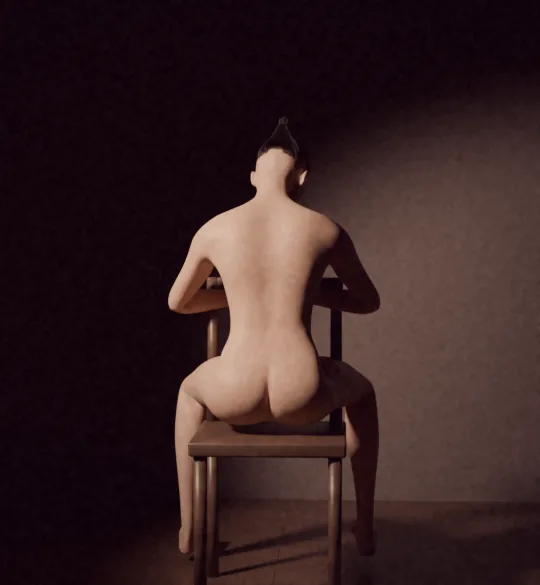
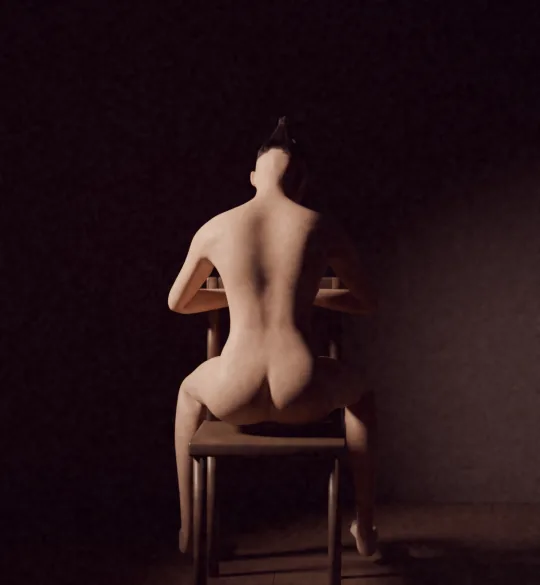
Masterclass art: light as each card says, captions as each picture shows
Five relit pictures had drifted from the tips printed on their own cards:
her-4 asks for soft diffused light, him-4 for frontal diffused light,
him-6 and her-10 for a side light, him-8 for soft light from a window.
They have them again, placed and softened so the faults that moved them
stay fixed: her-4 and him-8 turn from the light or take half of it in
shadow, and her-10's side light is broad enough that the shoulder
blade's shadow no longer reads as a hole.

The captions under six pictures named the view the old drawings had;
they name the photographs' now (her-2 from behind, her-6 from above her
feet, her-8 from above, her-9 in profile, him-4 in three-quarter view,
him-6 from the side).

Claude-Session: https://claude.ai/code/session_01H6q82pzaLn3bRwfZSNngxo

Changed region(s): [[0.2963, 0.1846, 1.0, 1.0], [0.3259, 0.4308, 0.4148, 0.5846]]

diff --git a/webapp/index.html b/webapp/index.html
@@ -4177,21 +4177,21 @@
     'camera-exposure': 'нажми на экран и потяни солнышко вниз',
     'camera-focus': 'тап по месту, которое главное в кадре',
     'her-1': 'вид сбоку · свет слева',
-    'her-2': 'вид спереди · свет сзади сверху',
+    'her-2': 'вид со спины · свет сзади сверху',
     'her-3': 'вид со спины · свет от окна спереди',
     'her-4': 'вид спереди · мягкий свет слева',
     'her-5': 'вид сбоку · свет от окна сзади',
-    'her-6': 'вид сверху · свет сверху слева',
+    'her-6': 'вид сверху от ног · свет из-за головы',
     'her-7': 'кадр крупным планом · свет слева',
-    'her-8': 'вид спереди · свет сзади',
-    'her-9': 'вид спереди · свет слева через жалюзи',
+    'her-8': 'вид сверху сбоку · свет сзади',
+    'her-9': 'вид сбоку · свет слева через жалюзи',
     'her-10': 'вид со спины · свет слева',
     'him-1': 'вид со спины · свет слева',
     'him-2': 'вид спереди · свет сверху',
     'him-3': 'вид спереди · свет справа',
-    'him-4': 'вид спереди · свет спереди',
+    'him-4': 'вид в три четверти · свет спереди',
     'him-5': 'вид сбоку · свет сзади',
-    'him-6': 'вид сзади · свет слева',
+    'him-6': 'вид сбоку со спины · свет сбоку',
     'him-7': 'вид спереди · холодный свет сверху',
     'him-8': 'вид спереди · свет от окна сбоку',
     'him-9': 'вид сбоку · тёплый свет справа',

diff --git a/scripts/guide_art/scenes.py b/scripts/guide_art/scenes.py
@@ -314,9 +314,9 @@ def her_4():
         ground=0.0,
     )  # fmt: skip
     wrapped_sheet(her.h, bare="r", colliders=[ground])
-    # One lamp high to the left, as drawn; she looks down toward it, away
-    # from the phone.
-    spot((-160, 190, 60), (0, 45, 0), WARM, 520.0, radius=10.0, cone=40.0, blend=0.5, name="key")
+    # Soft light, as the card says, from high on the left, as drawn; she
+    # looks down toward it, away from the phone.
+    area((-160, 190, 60), (0, 45, 0), WARM, 330.0, size=90.0, name="key")
     area((150, 120, -100), (0, 50, 0), WARM, 60.0, size=60.0, name="rim")
     camera((40, 75, 330), (0, 35, 0), 24.0, fstop=2.8, focus=(5, 45, 20))
     return Shot()
@@ -454,9 +454,10 @@ def her_10():
         ),
         hair="bun",
     )  # fmt: skip
-    # High and to the camera's side, as drawn: a lamp grazing the back from
-    # the side lays the shoulder blade's shadow over the spine like a hole.
-    spot((-170, 210, 120), (0, 95, 0), WARM, 450.0, radius=15.0, cone=44.0, blend=0.5, name="key")
+    # From the side, as the card says, but high and broad: a small lamp
+    # grazing the back laid the shoulder blade's shadow over the spine like
+    # a hole.
+    spot((-200, 190, 40), (0, 95, 0), WARM, 480.0, radius=22.0, cone=44.0, blend=0.5, name="key")
     camera((20, 105, 360), (0, 85, 0), 25.0, fstop=2.8)
     return Shot()
 
@@ -550,7 +551,8 @@ def him_4():
         ),
         outfit="boxers", ground=0.0,
     )  # fmt: skip
-    spot((-200, 220, 80), (0, 140, 0), WARM, 700.0, radius=8.0, cone=40.0, blend=0.5, name="key")
+    # Frontal and diffused, as the card says; a rim keeps him off the wall.
+    area((40, 190, 330), (0, 130, 0), WARM, 300.0, size=140.0, name="key")
     spot((150, 180, -120), (0, 150, 0), WARM, 300.0, radius=8.0, cone=22.0, blend=0.5, name="rim")
     camera((60, 110, 400), (0, 138, 0), 27.0, fstop=2.8, focus=(0, 130, 0))
     return Shot()
@@ -592,8 +594,10 @@ def him_6():
     )  # fmt: skip
     # From behind and to the side, as drawn: the wall to the left, his body
     # one line from the feet to the hands on it, the lamp high over the wall.
-    spot((-40, 250, -20), (0, 120, 20), WARM, 900.0, radius=8.0, cone=45.0, blend=0.5, name="key")
-    area((-300, 120, 300), (0, 110, 0), FILL, 15.0, size=150.0, name="fill")
+    # From the side, between him and the wall, as the card says: it rakes
+    # along his flank and the back turns away into shadow.
+    spot((-200, 170, -20), (0, 130, 0), WARM, 700.0, radius=10.0, cone=45.0, blend=0.5, name="key")
+    area((-300, 120, 300), (0, 110, 0), FILL, 6.0, size=150.0, name="fill")
     camera((-300, 135, 250), (-5, 120, -5), 28.0, fstop=2.8, focus=(0, 125, 10))
     return Shot()
 
@@ -638,10 +642,10 @@ def him_8():
         ),
         ground=1.2, colliders=[rug],
     )  # fmt: skip
-    # One lamp low to the left, half the face in shadow; the room dark. A
-    # face looking into the lens under flat light is where these bodies
-    # look most like mannequins.
-    spot((-150, 110, 60), (0, 35, 0), WARM, 380.0, radius=6.0, cone=35.0, blend=0.5, name="key")
+    # A window to the side, as the card says, level with his face: half of
+    # it in shadow, the room dark. A face looking into the lens under flat
+    # light is where these bodies look most like mannequins.
+    area((-170, 55, -10), (0, 38, 5), DAY, 240.0, size=70.0, size_y=110.0, name="window")
     spot((120, 90, -150), (0, 40, -20), WARM, 160.0, radius=6.0, cone=30.0, blend=0.5, name="rim")
     area((60, 70, 320), (0, 30, 0), FILL, 4.0, size=160.0, name="fill")
     camera((15, 45, 300), (0, 32, 0), 22.0, fstop=2.8, focus=(0, 40, 20))
